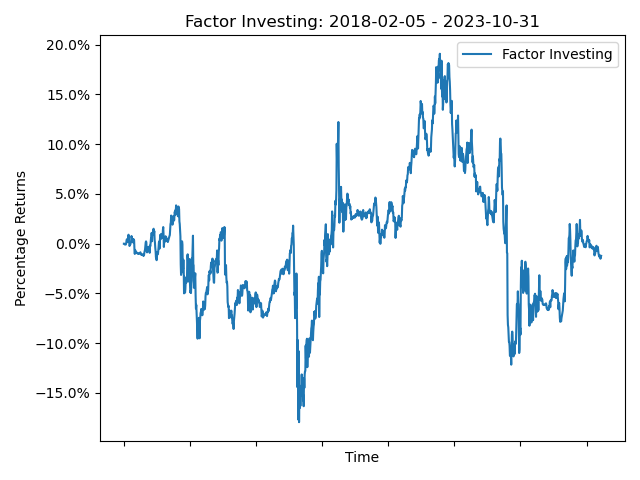
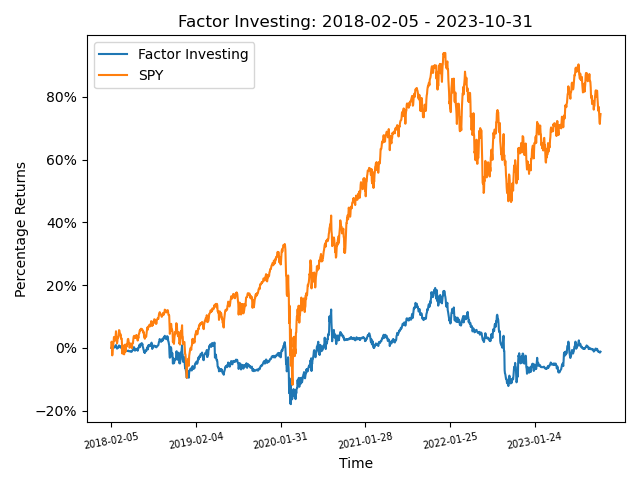
improved plotting with support for spy index and *args of strategies

diff --git a/Alphas/run_model.py b/Alphas/run_model.py
@@ -5,6 +5,8 @@ import pandas as pd
 import matplotlib.pyplot as plt
 import matplotlib.ticker as mtick
 import os
+from typing import List, Union
+
 
 root = "Alphas"
 
@@ -13,40 +15,68 @@ def normalize_data(series: pd.Series) -> pd.Series:
     return series.apply(lambda x: (x / (series.values[0]) - 1) * 100)
 
 
-def plot_all(data: pd.Series = portfolio_history, *args: pd.Series):
+def plot_all(data: pd.Series = portfolio_history, *args: List[Union[pd.Series, str]]):
     """
     @port_hist: our strategy's portfolio history
     @*args (list[pd.Series,str]): Other strategy history, with strategy label
     """
-    portfolio_history.name = "Factor Investing"
+    try:
+        portfolio_history.name = "Factor Investing"
+        print(portfolio_history.index, portfolio_history)
+        fig, ax = plt.subplots()
+        data = normalize_data(data).to_frame()
+        for series, label in args:
+            if type(series) == pd.DataFrame:
+                if len(series.columns) > 1:
+                    raise InvalidPlotArgument
+                series = series.iloc[:, 0]
+            print(series)
+            series.name = label
+            data = data.merge(
+                normalize_data(series), how="left", left_index=True, right_index=True
+            )
 
-    fig, ax1 = plt.subplots()
-    data = normalize_data(data).to_frame()
-    for series in args:
-        data = data.merge(
-            normalize_data(series),
-            how="left",
+        ax.set_xlabel("Time")
+        ax.set_ylabel("Percentage Returns")
+        ax.yaxis.set_major_formatter(mtick.PercentFormatter())
+        ax.set_title(f"Factor Investing: {start_date} - {end_date}")
+
+        for col in data.columns:
+            ax.plot(data[col], label=col)
+
+        every_nth = 250
+        for n, (label, tick, tickline) in enumerate(
+            zip(
+                ax.xaxis.get_ticklabels(),
+                ax.xaxis.get_major_ticks(),
+                ax.xaxis.get_ticklines(),
+            )
+        ):
+            if n % every_nth != 0:
+                label.set_visible(False)
+                tick.set_visible(False)
+                tickline.set_visible(False)
+
+        ax.legend()
+        fig.tight_layout()
+
+        ax.tick_params(axis="x", labelrotation=10, labelsize=7)
+
+        fig.savefig(
+            os.path.join(root, "Backtests/Images", f"{start_date}_{end_date}.png")
         )
 
-    ax1.set_xlabel("Time")
-    ax1.set_ylabel("Percentage Returns")
-    ax1.yaxis.set_major_formatter(mtick.PercentFormatter())
-    ax1.set_title(f"Factor Investing: {start_date} - {end_date}")
+        fig.show()
+    except InvalidPlotArgument as e:
+        print("Error occured with Invalid Plot Argument:", e)
+    except Exception as e:
+        print("Generic exception occured in plotting: ", e)
 
-    for col in data.columns:
-        ax1.plot(data[col], label=col)
 
-    every_nth = 200
-    for n, label in enumerate(ax1.xaxis.get_ticklabels()):
-        if n % every_nth != 0:
-            label.set_visible(False)
-
-    ax1.legend()
-    fig.tight_layout()
-
-    fig.savefig(os.path.join(root, "Backtests/Images", f"{start_date}_{end_date}.png"))
-
-    fig.show()
+class InvalidPlotArgument(Exception):
+    def __init__(self):
+        self.message = "Multiple column dataframe provided in plot_all."
+        super().__init__(self.message)
 
 
 if __name__ == "__main__":
@@ -56,9 +86,16 @@ if __name__ == "__main__":
     start_date = orders.index[0]
     end_date = orders.index[-1]
 
-    print(orders, len(orders), orders.values.tolist(), len(orders.values.tolist()))
+    # print(orders, len(orders), orders.values.tolist(), len(orders.values.tolist()))
+    print(orders.index)
     run_timeline(orders, start_date, end_date)
     print_results()
-    plot_all(portfolio_history)
+
+    spy_data = pd.read_csv(os.path.join(root, "Data/spy_index.csv")).set_index("Date")
+    print(type(spy_data))
+    print(spy_data)
+
+    portfolio_history.index = orders.index
+    plot_all(portfolio_history, [spy_data, "SPY"])
 
     print(f"Done. Took {time.time()-start_time:.2f} seconds.")

diff --git a/Alphas/market_tester.py b/Alphas/market_tester.py
@@ -265,5 +265,3 @@ if __name__ == "__main__":
     time_diff = time.time() - start_time
 
     print(f"Done. Took {time_diff:.2f} seconds.")
-
-    plot_all(portfolio_history, start_date, end_date)
